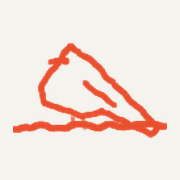
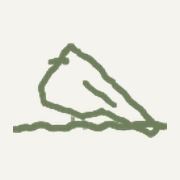
Site accent goes muted sage green
--color-bs-accent flips from orange #e94f2e to sage #6f7f5c (and the
soft tint follows), recoloring the wordmark Sounds, accent buttons,
badges, highlight bar, and spray marks in one move. All baked assets
regenerated in green: cardinal-accent, cardinal-perch, the accent
seal, favicon, apple-touch-icon, and the OG share card. The landing
pill returns to var(--color-bs-accent) as the single source of truth.

Claude-Session: https://claude.ai/code/session_01MTyooHaEUWt1CxeTTb8ugm

Changed region(s): [[0.0556, 0.2222, 0.9444, 0.7778]]

diff --git a/src/routes/index.tsx b/src/routes/index.tsx
@@ -112,7 +112,7 @@ function LandingPage() {
                 </Link>
                 <Link
                   to="/list-sound"
-                  className="relative z-20 inline-flex items-center justify-center rounded-full bg-[#6f7f5c] px-4 py-2 text-xs font-semibold uppercase tracking-wide text-white shadow-[0_4px_0_rgba(111,127,92,0.4)] ring-2 ring-[var(--color-bs-ink)] transition hover:-translate-y-0.5 hover:z-40"
+                  className="relative z-20 inline-flex items-center justify-center rounded-full bg-[var(--color-bs-accent)] px-4 py-2 text-xs font-semibold uppercase tracking-wide text-white shadow-[0_4px_0_rgba(111,127,92,0.4)] ring-2 ring-[var(--color-bs-ink)] transition hover:-translate-y-0.5 hover:z-40"
                 >
                   List a sound
                 </Link>

diff --git a/src/styles.css b/src/styles.css
@@ -64,8 +64,8 @@
   --color-bs-ink-mute: #6b6b6b;
   --color-bs-rule: rgba(13, 13, 13, 0.15);
   --color-bs-rule-strong: rgba(13, 13, 13, 0.35);
-  --color-bs-accent: #e94f2e;
-  --color-bs-accent-soft: rgba(233, 79, 46, 0.25);
+  --color-bs-accent: #6f7f5c;
+  --color-bs-accent-soft: rgba(111, 127, 92, 0.25);
 }
 
 :root {
